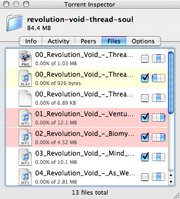
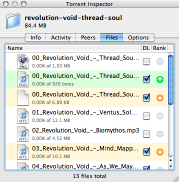
update help a little
git-svn-id: svn://svn.transmissionbt.com/Transmission/trunk@2451 f4695dd4-2c0a-0410-b89c-da849a56a58e

diff --git a/macosx/Transmission Help/html/gettingstarted.html b/macosx/Transmission Help/html/gettingstarted.html
@@ -130,7 +130,7 @@
 					<td valign="top" width="150"><img src="../gfx/fileselection.png" height="auto" width="150" border="0"></td>
 					<td valign="top">
 						<p>Yes, via the Inspector. Double click any transfer to open it and then click the 'Files' tab. Simply check the boxes next to the files you want to download (the default is all of them).
-						You can even set a priority (red/high or yellow/low) to each file, if you want some to finish faster than others. To do so, use the selector next to the checkboxes.
+						You can even set a priority (green/high or orange/low) to each file, if you want some to finish faster than others. To do so, use the selector that appears next to the checkboxes.
 						<p>If you are frequently going to selectively download the files in your torrents, you might want to disable "Start Transfers when added" in Preferences >> Transfers >> Management.
 						This way you can organise your transfer before it starts, to avoid wasting download bandwidth.
 					</td>
